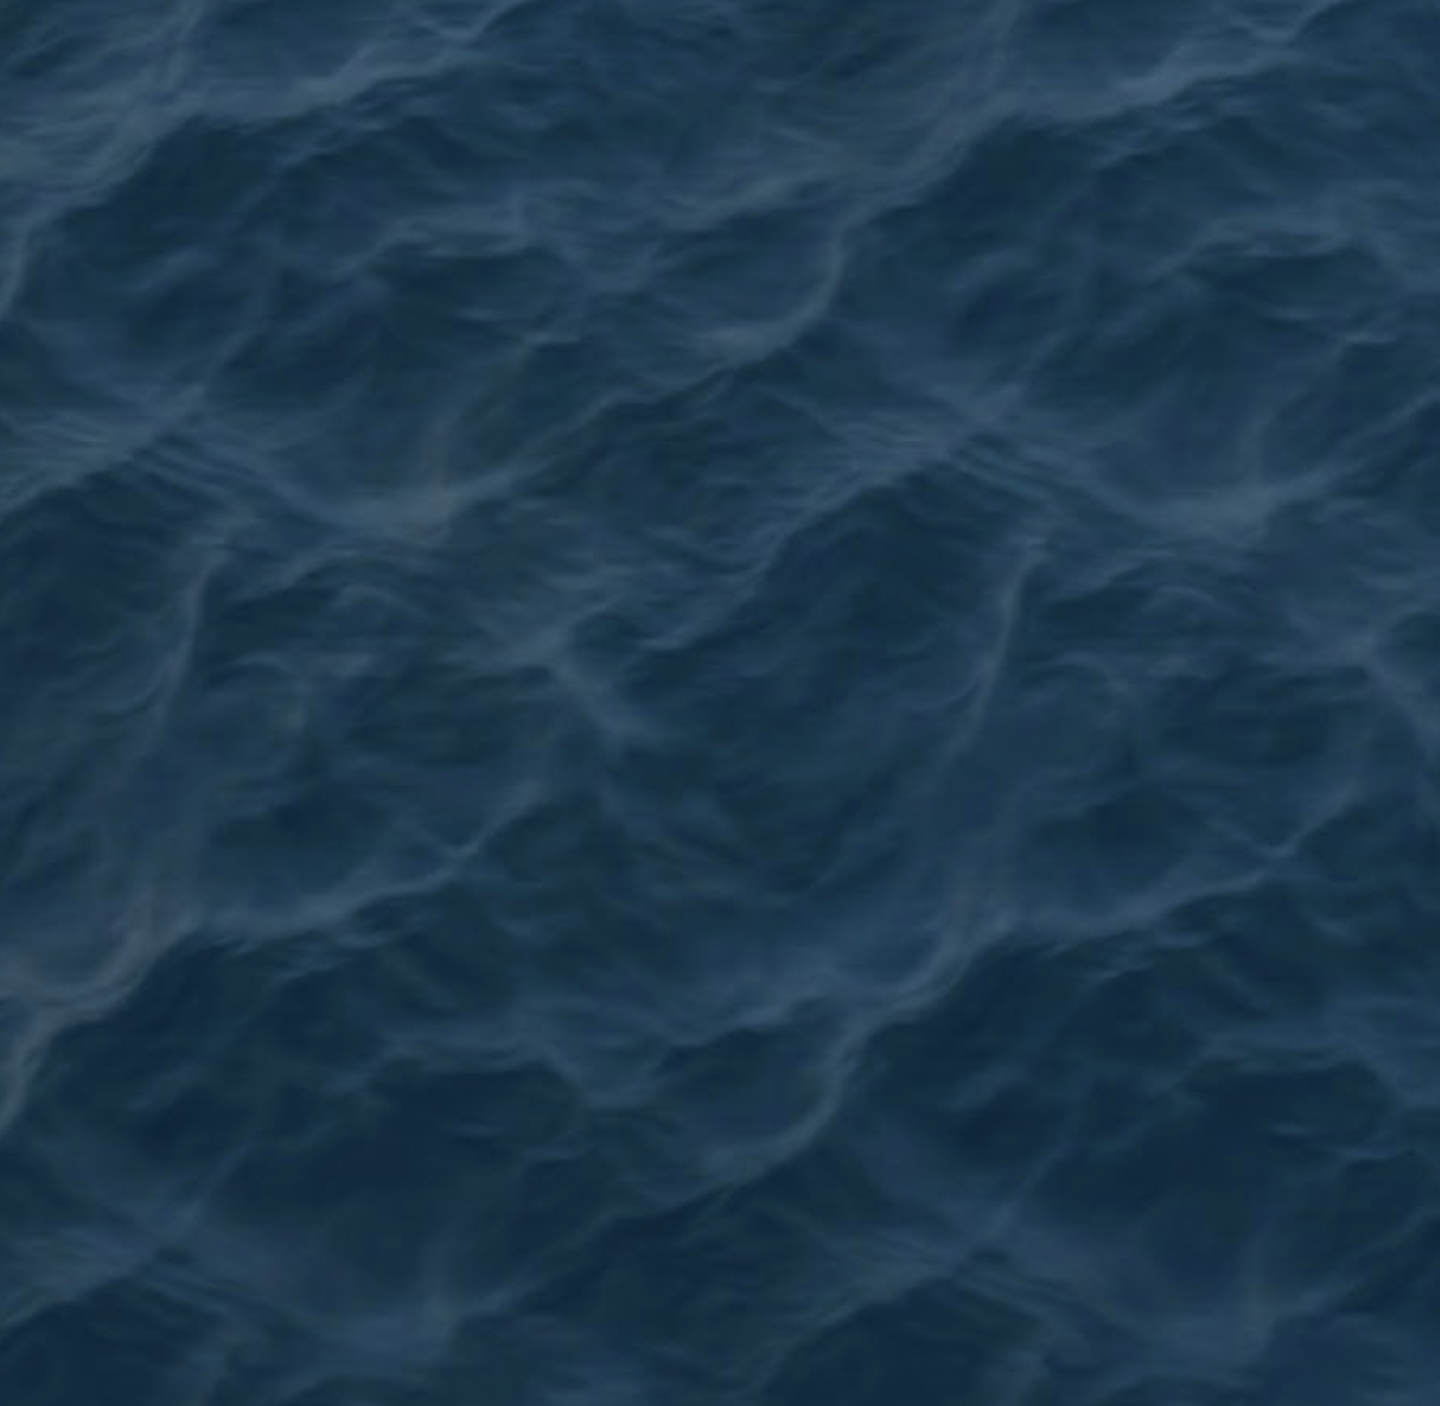
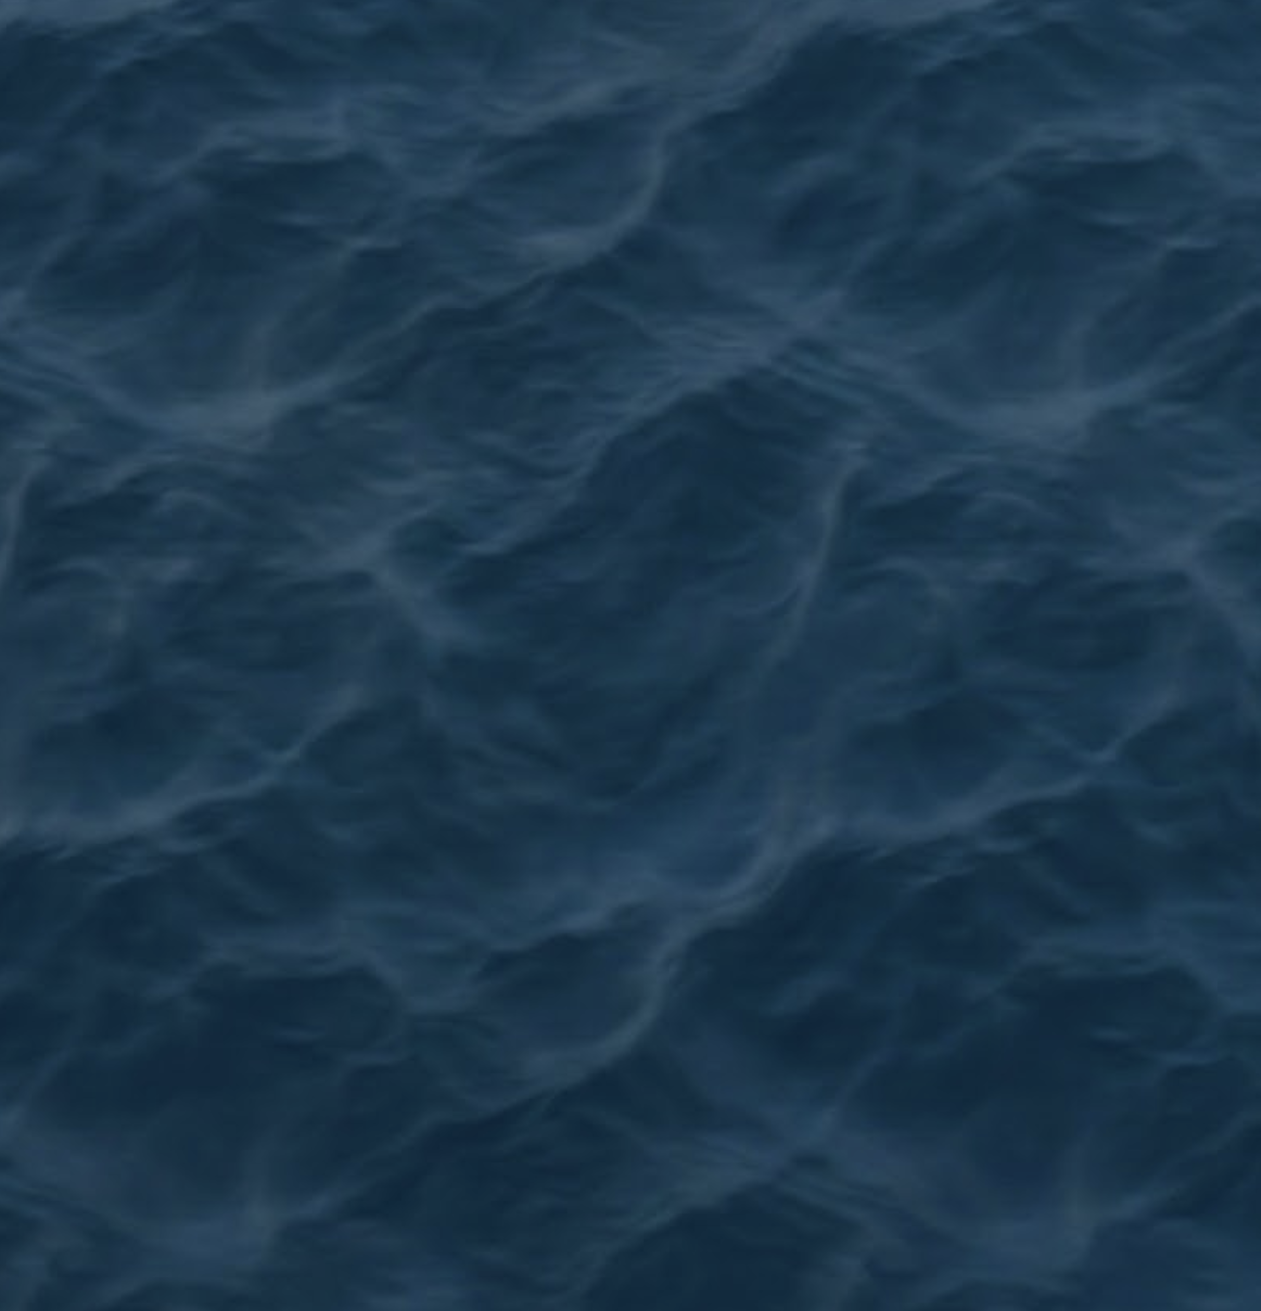
water render

diff --git a/src/components/Game.tsx b/src/components/Game.tsx
@@ -6302,35 +6302,104 @@ function CanvasIsometricGrid({ overlayMode, selectedTile, setSelectedTile, isMob
         (activePack.parksBuildings && activePack.parksBuildings[buildingType]);
       
       if (hasTileSprite) {
-        // Special handling for water: use separate water.png image
+        // Special handling for water: use separate water.png image with blending for adjacent water tiles
         if (buildingType === 'water') {
           const waterImage = imageCache.get('/assets/water.png');
+          
+          // Check which adjacent tiles are also water for blending
+          const gridX = tile.x;
+          const gridY = tile.y;
+          const adjacentWater = {
+            north: gridX > 0 && grid[gridY]?.[gridX - 1]?.building.type === 'water',
+            east: gridY > 0 && grid[gridY - 1]?.[gridX]?.building.type === 'water',
+            south: gridX < gridSize - 1 && grid[gridY]?.[gridX + 1]?.building.type === 'water',
+            west: gridY < gridSize - 1 && grid[gridY + 1]?.[gridX]?.building.type === 'water',
+          };
+          
+          // Count adjacent water tiles - more neighbors = larger blend
+          const adjacentCount = (adjacentWater.north ? 1 : 0) + (adjacentWater.east ? 1 : 0) + 
+                               (adjacentWater.south ? 1 : 0) + (adjacentWater.west ? 1 : 0);
+          
           if (waterImage) {
             // Center the water sprite on the tile
             const tileCenterX = x + w / 2;
             const tileCenterY = y + h / 2;
             
-            // Scale to 71.5% of tile size (65% * 1.1 = 10% expansion)
-            const destWidth = w * 1.2 * 0.715;
-            const aspectRatio = (waterImage.naturalHeight || waterImage.height) / (waterImage.naturalWidth || waterImage.width);
-            const destHeight = destWidth * aspectRatio;
+            // Random subcrop of water texture based on tile position for variety
+            const imgW = waterImage.naturalWidth || waterImage.width;
+            const imgH = waterImage.naturalHeight || waterImage.height;
             
-            // Draw the water image centered on tile (can overflow/clip at map edges)
-            ctx.drawImage(
-              waterImage,
-              0, 0, waterImage.naturalWidth || waterImage.width, waterImage.naturalHeight || waterImage.height,
-              Math.round(tileCenterX - destWidth / 2), Math.round(tileCenterY - destHeight / 2),
-              Math.round(destWidth), Math.round(destHeight)
-            );
+            // Deterministic "random" offset based on tile position
+            const seedX = ((gridX * 7919 + gridY * 6271) % 1000) / 1000;
+            const seedY = ((gridX * 4177 + gridY * 9311) % 1000) / 1000;
+            
+            // Take a subcrop - use 50% of the image, offset randomly
+            const cropScale = 0.5;
+            const cropW = imgW * cropScale;
+            const cropH = imgH * cropScale;
+            const maxOffsetX = imgW - cropW;
+            const maxOffsetY = imgH - cropH;
+            const srcX = seedX * maxOffsetX;
+            const srcY = seedY * maxOffsetY;
+            
+            // Strong offset to shift toward adjacent water
+            const offsetX = ((adjacentWater.south ? 1 : 0) - (adjacentWater.north ? 1 : 0)) * w * 0.15 +
+                           ((adjacentWater.east ? 1 : 0) - (adjacentWater.west ? 1 : 0)) * w * 0.15;
+            const offsetY = ((adjacentWater.south ? 1 : 0) - (adjacentWater.north ? 1 : 0)) * h * 0.15 +
+                           ((adjacentWater.west ? 1 : 0) - (adjacentWater.east ? 1 : 0)) * h * 0.15;
+            
+            // Draw multiple passes with decreasing size and opacity for feathered edges
+            // This creates a soft blend at the edges instead of hard cuts
+            // Passes are spread far apart for wide, gradual feathering
+            const aspectRatio = cropH / cropW;
+            const passes = [
+              { scale: 3.5 + adjacentCount * 0.6, alpha: 0.15 },  // Largest, very faint outer halo
+              { scale: 2.8 + adjacentCount * 0.5, alpha: 0.25 },
+              { scale: 2.2 + adjacentCount * 0.4, alpha: 0.4 },
+              { scale: 1.6 + adjacentCount * 0.3, alpha: 0.6 },
+              { scale: 1.1 + adjacentCount * 0.15, alpha: 0.85 },
+              { scale: 0.85 + adjacentCount * 0.1, alpha: 1.0 }, // Core, fully opaque
+            ];
+            
+            const savedAlpha = ctx.globalAlpha;
+            
+            for (const pass of passes) {
+              const destWidth = w * pass.scale;
+              const destHeight = destWidth * aspectRatio;
+              
+              ctx.globalAlpha = pass.alpha;
+              ctx.drawImage(
+                waterImage,
+                srcX, srcY, cropW, cropH,
+                Math.round(tileCenterX - destWidth / 2 + offsetX),
+                Math.round(tileCenterY - destHeight / 2 + offsetY),
+                Math.round(destWidth),
+                Math.round(destHeight)
+              );
+            }
+            
+            ctx.globalAlpha = savedAlpha;
           } else {
-            // Water image not loaded yet - draw placeholder water diamond
+            // Water image not loaded yet - draw placeholder with radial gradient for soft edges
+            const blendPx = 20 + adjacentCount * 10;
+            
             const corners = {
-              top: { x: x + w / 2, y },
-              right: { x: x + w, y: y + h / 2 },
-              bottom: { x: x + w / 2, y: y + h },
-              left: { x, y: y + h / 2 },
+              top: { x: x + w / 2, y: y - (adjacentWater.north || adjacentWater.east ? blendPx : 0) },
+              right: { x: x + w + (adjacentWater.east || adjacentWater.south ? blendPx : 0), y: y + h / 2 },
+              bottom: { x: x + w / 2, y: y + h + (adjacentWater.south || adjacentWater.west ? blendPx : 0) },
+              left: { x: x - (adjacentWater.west || adjacentWater.north ? blendPx : 0), y: y + h / 2 },
             };
-            ctx.fillStyle = '#0ea5e9';
+            
+            // Create radial gradient for soft edges
+            const gradient = ctx.createRadialGradient(
+              x + w / 2, y + h / 2, 0,
+              x + w / 2, y + h / 2, w * 0.8
+            );
+            gradient.addColorStop(0, 'rgba(14, 165, 233, 1)');
+            gradient.addColorStop(0.6, 'rgba(14, 165, 233, 0.8)');
+            gradient.addColorStop(1, 'rgba(14, 165, 233, 0.2)');
+            
+            ctx.fillStyle = gradient;
             ctx.beginPath();
             ctx.moveTo(corners.top.x, corners.top.y);
             ctx.lineTo(corners.right.x, corners.right.y);
